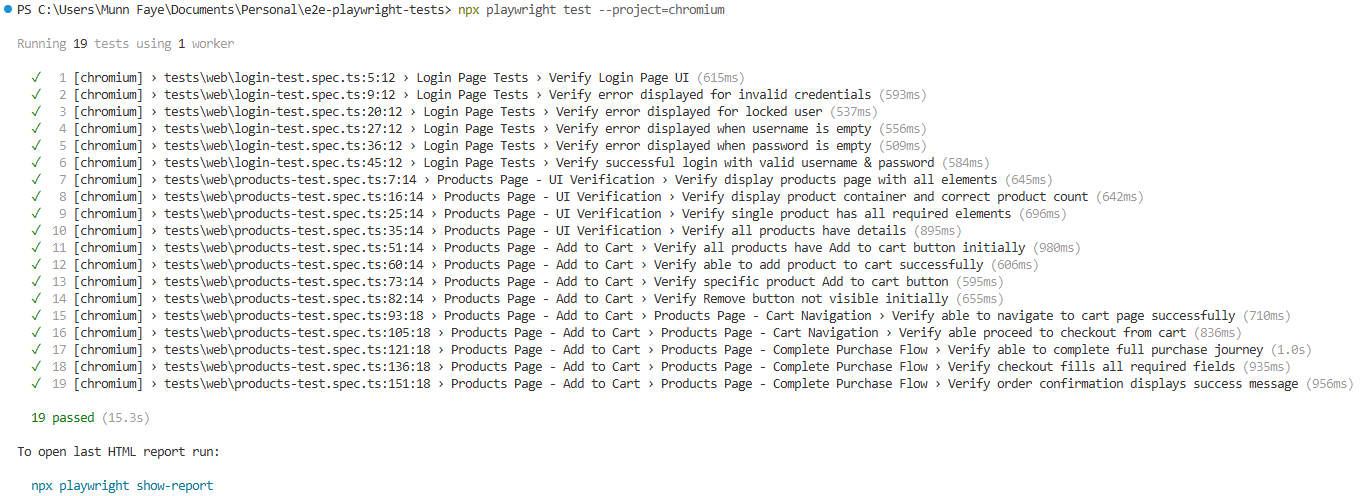
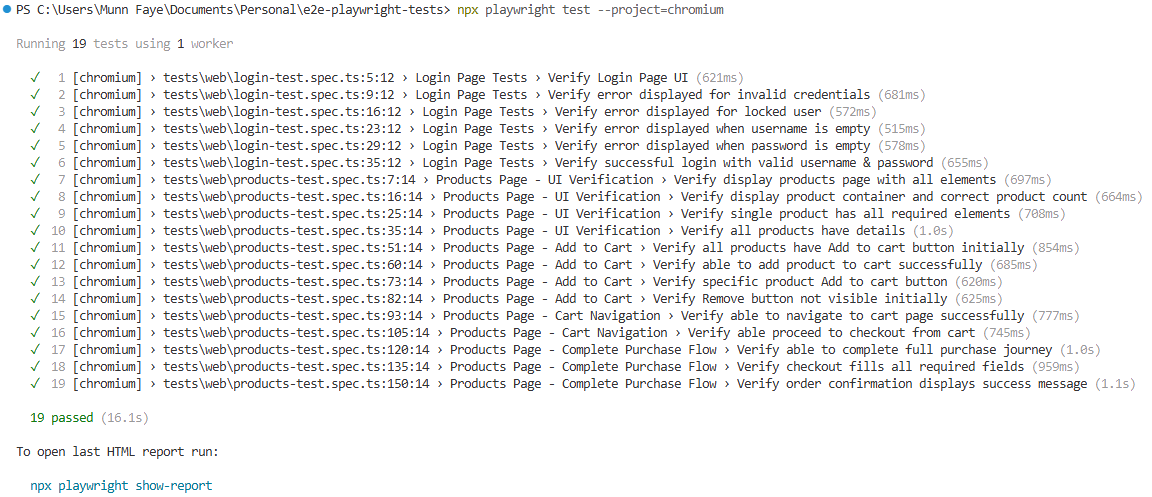
Web tests code cleanup

diff --git a/tests/web/products-test.spec.ts b/tests/web/products-test.spec.ts
@@ -3,7 +3,7 @@ import { testSetup, validUser, validPassword } from "../../config/testSetup";
 import { ProductsPage } from "../../pages/products.page";
 import { PRODUCT_KEYS, CHECKOUT_DATA } from "../../constants/testData";
 
-test.describe("Products Page - UI Verification", () => {
+test.describe.serial("Products Page - UI Verification", () => {
     testSetup("Verify display products page with all elements", async ({ loginPage, page }) => {
         await loginPage.enterValidUsername(validUser);
         await loginPage.enterValidPassword(validPassword);
@@ -87,82 +87,79 @@ test.describe("Products Page - Add to Cart", () => {
         const productsPage = new ProductsPage(page);
         await productsPage.verifyRemoveButtonNotVisible(PRODUCT_KEYS[2]);
     });
+});
 
-    test.describe("Products Page - Cart Navigation", () => {
+test.describe("Products Page - Cart Navigation", () => {
+    testSetup("Verify able to navigate to cart page successfully", async ({ loginPage, page }) => {
+        await loginPage.enterValidUsername(validUser);
+        await loginPage.enterValidPassword(validPassword);
+        await loginPage.clickLoginButton();
 
-        testSetup("Verify able to navigate to cart page successfully", async ({ loginPage, page }) => {
-            await loginPage.enterValidUsername(validUser);
-            await loginPage.enterValidPassword(validPassword);
-            await loginPage.clickLoginButton();
+        const productsPage = new ProductsPage(page);
+        await productsPage.addProductToCart(PRODUCT_KEYS[1]);
+        await productsPage.proceedToCart();
 
-            const productsPage = new ProductsPage(page);
-            await productsPage.addProductToCart(PRODUCT_KEYS[1]);
-            await productsPage.proceedToCart();
-
-            await expect(page).toHaveURL(/cart.html/);
-        });
-
-        testSetup("Verify able proceed to checkout from cart", async ({ loginPage, page }) => {
-            await loginPage.enterValidUsername(validUser);
-            await loginPage.enterValidPassword(validPassword);
-            await loginPage.clickLoginButton();
-
-            const productsPage = new ProductsPage(page);
-            await productsPage.addProductToCart(PRODUCT_KEYS[3]);
-            await productsPage.proceedToCart();
-            await productsPage.proceedToCheckout();
-
-            await expect(page).toHaveURL(/checkout-step-one.html/);
-        });
+        await expect(page).toHaveURL(/cart.html/);
     });
 
-    test.describe("Products Page - Complete Purchase Flow", () => {
+    testSetup("Verify able proceed to checkout from cart", async ({ loginPage, page }) => {
+        await loginPage.enterValidUsername(validUser);
+        await loginPage.enterValidPassword(validPassword);
+        await loginPage.clickLoginButton();
 
-        testSetup("Verify able to complete full purchase journey", async ({ loginPage, page }) => {
-            await loginPage.enterValidUsername(validUser);
-            await loginPage.enterValidPassword(validPassword);
-            await loginPage.clickLoginButton();
+        const productsPage = new ProductsPage(page);
+        await productsPage.addProductToCart(PRODUCT_KEYS[3]);
+        await productsPage.proceedToCart();
+        await productsPage.proceedToCheckout();
 
-            const productsPage = new ProductsPage(page);
+        await expect(page).toHaveURL(/checkout-step-one.html/);
+    });
+});
 
-            await productsPage.addProductToCart(PRODUCT_KEYS[0]);
-            await productsPage.proceedToCart();
-            await productsPage.proceedToCheckout();
-            await productsPage.fillCheckOutInformation(CHECKOUT_DATA);
-            await productsPage.completePurchase();
-            await productsPage.verifyOrderConfirmation();
-        });
+test.describe("Products Page - Complete Purchase Flow", () => {
+    testSetup("Verify able to complete full purchase journey", async ({ loginPage, page }) => {
+        await loginPage.enterValidUsername(validUser);
+        await loginPage.enterValidPassword(validPassword);
+        await loginPage.clickLoginButton();
 
-        testSetup("Verify checkout fills all required fields", async ({ loginPage, page }) => {
-            await loginPage.enterValidUsername(validUser);
-            await loginPage.enterValidPassword(validPassword);
-            await loginPage.clickLoginButton();
+        const productsPage = new ProductsPage(page);
 
-            const productsPage = new ProductsPage(page);
-            await productsPage.addProductToCart(PRODUCT_KEYS[2]);
-            await productsPage.proceedToCart();
-            await productsPage.proceedToCheckout();
-
-            await productsPage.fillCheckOutInformation(CHECKOUT_DATA);
-
-            await expect(page).toHaveURL(/checkout-step-two.html/);
-        });
-
-        testSetup("Verify order confirmation displays success message", async ({ loginPage, page }) => {
-            await loginPage.enterValidUsername(validUser);
-            await loginPage.enterValidPassword(validPassword);
-            await loginPage.clickLoginButton();
-
-            const productsPage = new ProductsPage(page);
-            await productsPage.addProductToCart(PRODUCT_KEYS[5]);
-            await productsPage.proceedToCart();
-            await productsPage.proceedToCheckout();
-            await productsPage.fillCheckOutInformation(CHECKOUT_DATA);
-            await productsPage.completePurchase();
-
-            await expect(page).toHaveURL(/checkout-complete.html/);
-            await productsPage.verifyOrderConfirmation();
-        });
+        await productsPage.addProductToCart(PRODUCT_KEYS[0]);
+        await productsPage.proceedToCart();
+        await productsPage.proceedToCheckout();
+        await productsPage.fillCheckOutInformation(CHECKOUT_DATA);
+        await productsPage.completePurchase();
+        await productsPage.verifyOrderConfirmation();
     });
 
+    testSetup("Verify checkout fills all required fields", async ({ loginPage, page }) => {
+        await loginPage.enterValidUsername(validUser);
+        await loginPage.enterValidPassword(validPassword);
+        await loginPage.clickLoginButton();
+
+        const productsPage = new ProductsPage(page);
+        await productsPage.addProductToCart(PRODUCT_KEYS[2]);
+        await productsPage.proceedToCart();
+        await productsPage.proceedToCheckout();
+
+        await productsPage.fillCheckOutInformation(CHECKOUT_DATA);
+
+        await expect(page).toHaveURL(/checkout-step-two.html/);
+    });
+
+    testSetup("Verify order confirmation displays success message", async ({ loginPage, page }) => {
+        await loginPage.enterValidUsername(validUser);
+        await loginPage.enterValidPassword(validPassword);
+        await loginPage.clickLoginButton();
+
+        const productsPage = new ProductsPage(page);
+        await productsPage.addProductToCart(PRODUCT_KEYS[5]);
+        await productsPage.proceedToCart();
+        await productsPage.proceedToCheckout();
+        await productsPage.fillCheckOutInformation(CHECKOUT_DATA);
+        await productsPage.completePurchase();
+
+        await expect(page).toHaveURL(/checkout-complete.html/);
+        await productsPage.verifyOrderConfirmation();
+    });
 });

diff --git a/tests/web/login-test.spec.ts b/tests/web/login-test.spec.ts
@@ -1,21 +1,17 @@
 import { test } from "@playwright/test";
 import { invalidPassword, invalidUser, lockedUser, testSetup, validPassword, validUser } from "../../config/testSetup";
 
-test.describe("Login Page Tests", () => {
+test.describe.serial("Login Page Tests", () => {
   testSetup("Verify Login Page UI", async ({ loginPage }) => {
     await loginPage.verifyLoginPageLoaded();
   });
 
-  testSetup(
-    "Verify error displayed for invalid credentials",
-    async ({ loginPage }) => {
-      await loginPage.enterInvalidUsername(invalidUser);
-      await loginPage.enterInvalidPassword(
-        invalidPassword,
-      );
-      await loginPage.clickLoginButton();
-      await loginPage.verifyErrorMessage("invalidCredentials");
-    });
+  testSetup("Verify error displayed for invalid credentials", async ({ loginPage }) => {
+    await loginPage.enterInvalidUsername(invalidUser);
+    await loginPage.enterInvalidPassword(invalidPassword);
+    await loginPage.clickLoginButton();
+    await loginPage.verifyErrorMessage("invalidCredentials");
+  });
 
   testSetup("Verify error displayed for locked user", async ({ loginPage }) => {
     await loginPage.enterLockedUsername(lockedUser);
@@ -24,31 +20,22 @@ test.describe("Login Page Tests", () => {
     await loginPage.verifyErrorMessage("lockedUser");
   });
 
-  testSetup(
-    "Verify error displayed when username is empty",
-    async ({ loginPage }) => {
-      await loginPage.enterValidPassword(validPassword);
-      await loginPage.clickLoginButton();
-      await loginPage.verifyErrorMessage("usernameRequired");
-    }
-  );
+  testSetup("Verify error displayed when username is empty", async ({ loginPage }) => {
+    await loginPage.enterValidPassword(validPassword);
+    await loginPage.clickLoginButton();
+    await loginPage.verifyErrorMessage("usernameRequired");
+  });
 
-  testSetup(
-    "Verify error displayed when password is empty",
-    async ({ loginPage }) => {
-      await loginPage.enterValidUsername(validUser);
-      await loginPage.clickLoginButton();
-      await loginPage.verifyErrorMessage("passwordRequired");
-    }
-  );
+  testSetup("Verify error displayed when password is empty", async ({ loginPage }) => {
+    await loginPage.enterValidUsername(validUser);
+    await loginPage.clickLoginButton();
+    await loginPage.verifyErrorMessage("passwordRequired");
+  });
 
-  testSetup(
-    "Verify successful login with valid username & password",
-    async ({ loginPage }) => {
-      await loginPage.enterValidUsername(validUser);
-      await loginPage.enterValidPassword(validPassword);
-      await loginPage.clickLoginButton();
-      await loginPage.verifySuccessfulLogin();
-    }
-  );
+  testSetup("Verify successful login with valid username & password", async ({ loginPage }) => {
+    await loginPage.enterValidUsername(validUser);
+    await loginPage.enterValidPassword(validPassword);
+    await loginPage.clickLoginButton();
+    await loginPage.verifySuccessfulLogin();
+  });
 });

diff --git a/README.md b/README.md
@@ -106,8 +106,8 @@ Reports are generated in the `playwright-report/` folder.
 ![Web Console Output](assets/web-console-output.png)
 
 #### HTML Report
-![Web HTML Report](assets/web-html-report-part1.png)
-![Web HTML Report](assets/web-html-report-part2.png)
+![Web HTML Report](assets/web-html-report-section1.png)
+![Web HTML Report](assets/web-html-report-section2.png)
 
 ## Contact
 
